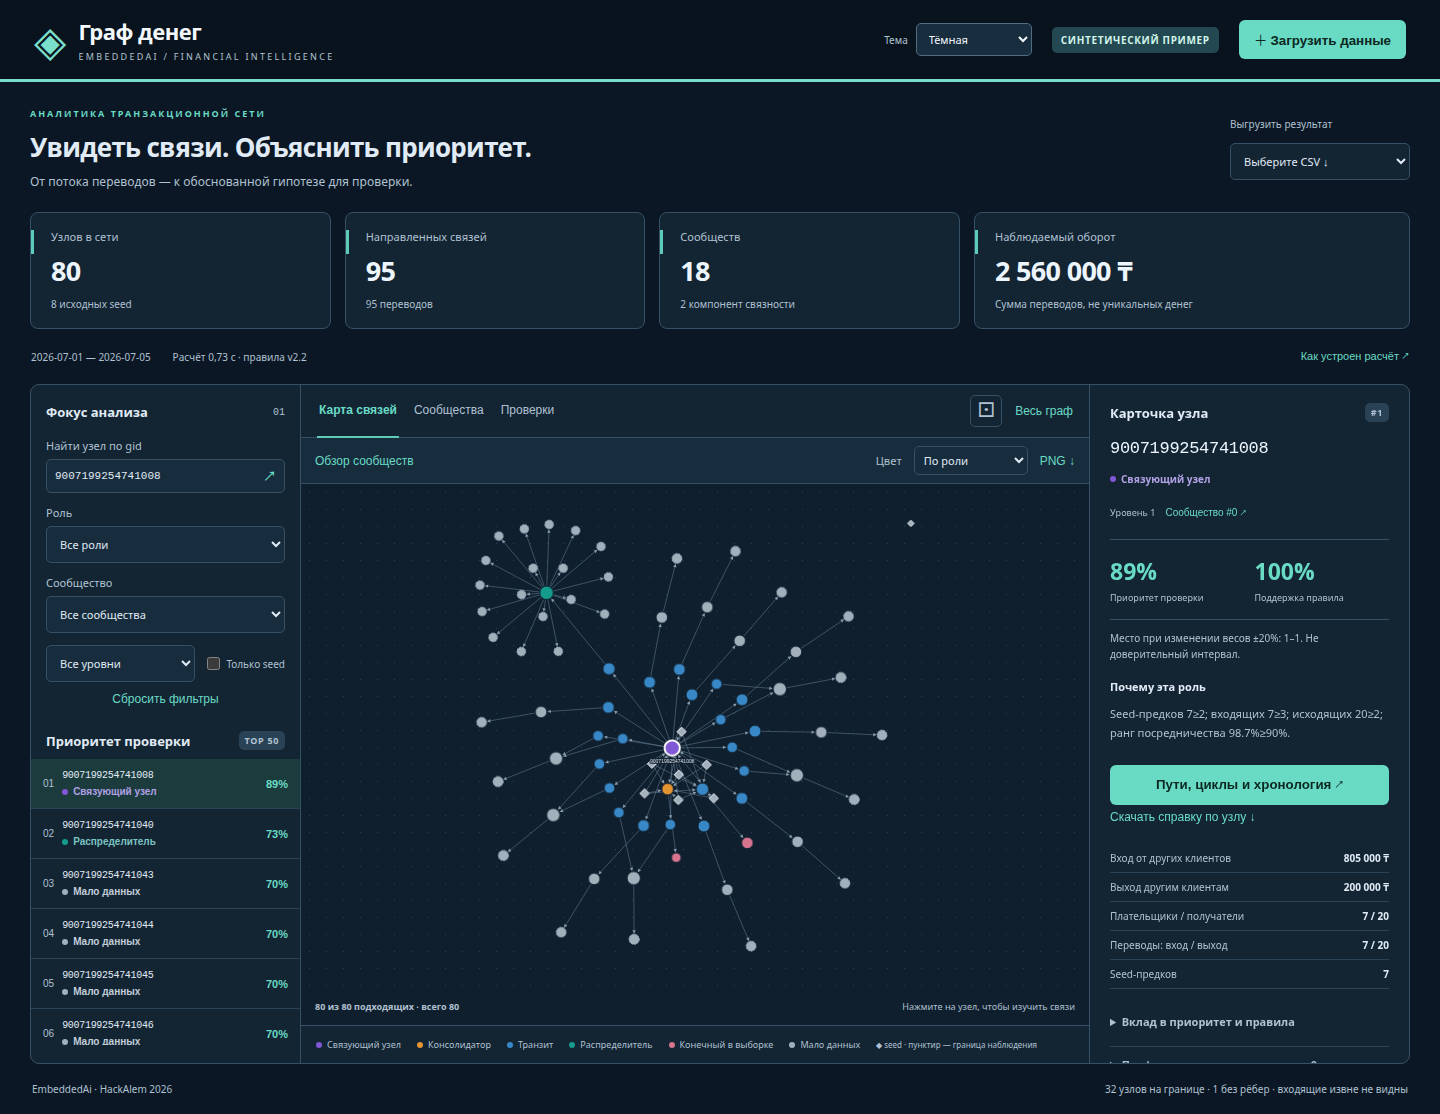
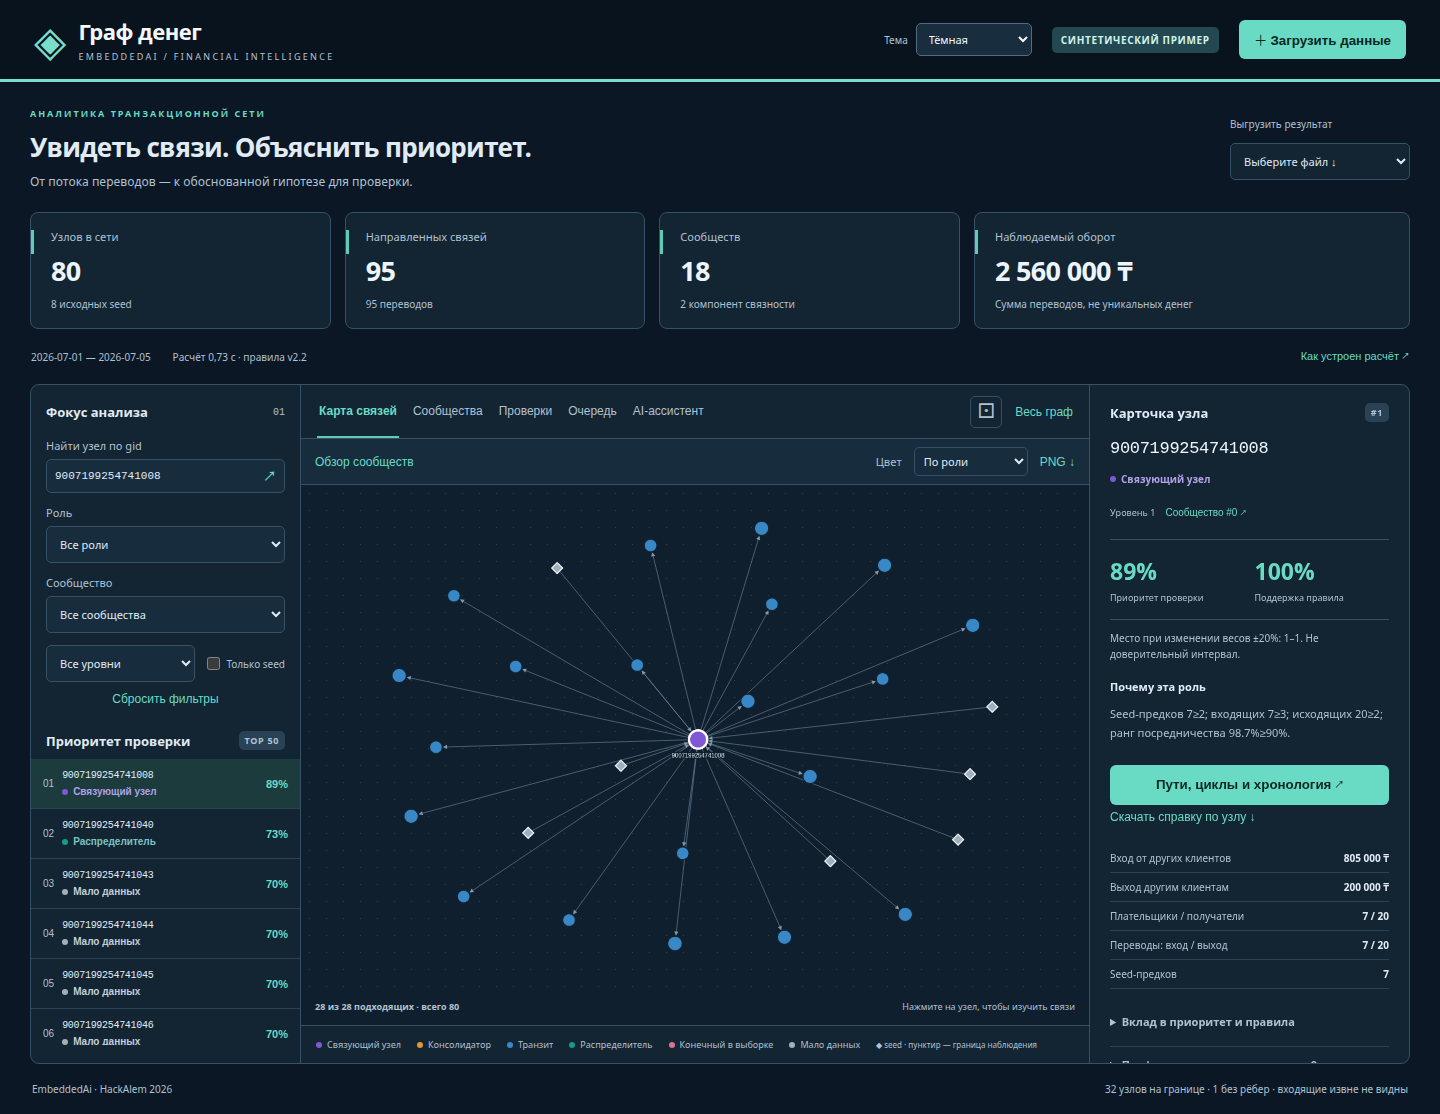
Polish analyst workflow and document verified v0.6 deployment

diff --git a/web/src/main.ts b/web/src/main.ts
@@ -43,7 +43,7 @@ let assistant: AnalystAssistant | undefined;
 $("app").innerHTML = `
   <header class="header"><a class="brand" href="/" aria-label="На главную"><span class="brand-icon">◈</span><span>Граф денег<small>EMBEDDEDAI / FINANCIAL INTELLIGENCE</small></span></a>
     <div class="header-right"><div class="theme-control"><label for="theme-select">Тема</label><select id="theme-select" aria-label="Цветовая тема"><option value="system">Системная</option><option value="light">Светлая</option><option value="dark">Тёмная</option></select></div><span id="dataset-badge" class="tag">Подключение…</span><button id="upload-open" class="button primary">＋ Загрузить данные</button></div></header>
-  <main><div class="heading"><div><p class="eyebrow">АНАЛИТИКА ТРАНЗАКЦИОННОЙ СЕТИ</p><h1>Увидеть связи. Объяснить приоритет.</h1><p class="subtitle">От потока переводов — к обоснованной гипотезе для проверки.</p></div><div class="export-wrap"><label for="export-select">Выгрузить результат</label><select id="export-select"><option value="">Выберите CSV ↓</option><option value="nodes_roles.csv">Все узлы и роли</option><option value="clusters.csv">Кластеры</option><option value="top_nodes.csv">Топ приоритетов</option></select></div></div>
+  <main><div class="heading"><div><p class="eyebrow">АНАЛИТИКА ТРАНЗАКЦИОННОЙ СЕТИ</p><h1>Увидеть связи. Объяснить приоритет.</h1><p class="subtitle">От потока переводов — к обоснованной гипотезе для проверки.</p></div><div class="export-wrap"><label for="export-select">Выгрузить результат</label><select id="export-select"><option value="">Выберите файл ↓</option><option value="nodes_roles.csv">Все узлы и роли</option><option value="clusters.csv">Кластеры</option><option value="top_nodes.csv">Топ приоритетов</option><option value="report.html">Офлайн-отчёт HTML</option></select></div></div>
   <div id="alert" class="alert" role="status" hidden></div>
   <section id="metrics" class="metrics" aria-label="Показатели набора"><div class="metric">Загрузка показателей…</div></section>
   <div class="context-strip"><span id="period">—</span><span id="runtime">—</span><button id="method-open" class="text-button">Как устроен расчёт ↗</button></div>

diff --git a/web/tests/workspace.spec.ts b/web/tests/workspace.spec.ts
@@ -84,6 +84,7 @@ test("AI uses selected string gids and session-only access code, escapes output 
   await page.locator("#assistant-token").fill("test-access-code");
   await page.locator("#assistant-send").click();
   await expect(page.locator(".assistant-answer-text")).toContainText("<img src=x");
+  await expect(page.locator(".assistant-answer-text")).toBeInViewport();
   await expect(page.locator("#assistant-result img")).toHaveCount(0);
   expect(payload).toEqual({ question: "Кто собирает деньги с этих двоих?", selected_gids: chosen });
   expect(sentToken).toBe("test-access-code");
@@ -126,6 +127,7 @@ test("AI cancellation ignores a late response and API failure stays an actionabl
   await expect(page.locator("#assistant-result")).toContainText("Запрос отменён");
   await page.locator("#assistant-send").click();
   await expect(page.locator("#assistant-result")).toContainText("Провайдер временно недоступен");
+  await expect(page.locator("#assistant-result .alert")).toBeInViewport();
   await expect(page.locator(".assistant-answer")).toHaveCount(0);
   await expect(page.locator("#assistant-send")).toBeEnabled();
 });

diff --git a/web/src/assistant.ts b/web/src/assistant.ts
@@ -199,6 +199,8 @@ export class AnalystAssistant {
       if (sequence === this.sequence) {
         this.pending = false;
         this.updateControls();
+        if (!$("assistant-view").hidden)
+          $("assistant-result").scrollIntoView({ block: "start", behavior: "auto" });
       }
     }
   }

diff --git a/README.md b/README.md
@@ -173,7 +173,7 @@ Bash-обёртки `scripts/start.sh` и `scripts/verify.sh` сохранены
 
 ![Синтетический пример: направленный граф и объяснение роли узла](docs/images/demo.png)
 
-[Посмотреть тёмную тему](docs/images/demo-dark.png).
+[Посмотреть тёмную тему](docs/images/demo-dark.png) · [Пример AI-ответа](docs/images/assistant.png).
 
 Основной сценарий: загрузите три файла → откройте TOP → объясните роль через
 факты → найдите произвольный `gid` → покажите связи/сообщество → скачайте CSV.
@@ -211,7 +211,7 @@ flowchart LR
 Python 3.12, pandas, PyArrow, NumPy/SciPy, NetworkX, FastAPI, Uvicorn;
 TypeScript, Cytoscape.js и Vite. CLI и API вызывают один `pipeline.analyze`.
 Состояние хранится в каталогах запусков; база данных для данного объёма не нужна.
-Вычисления выполняются на CPU. GPU, обучение нейросети и платные API не требуются.
+Основной аналитический пайплайн выполняется на CPU. GPU, обучение нейросети и платные API для него не требуются.
 
 `uv build --wheel` собирает самостоятельный Python-пакет для команд `demo` и
 `analyze`. Правила включены в wheel: после установки расчёт работает вне checkout

diff --git a/docs/OFFLINE_REPORT.md b/docs/OFFLINE_REPORT.md
@@ -10,7 +10,8 @@ uv run --frozen --no-dev python analyze.py --data ./data/data --out ./artifacts
 После успешного завершения откройте `artifacts/report.html` двойным щелчком в
 проводнике Windows, Finder macOS или файловом менеджере Linux. Отчёт работает
 через `file://`: Node.js, веб-сервер, API-ключ и интернет для просмотра не нужны.
-Чтобы ссылки на CSV работали, оставьте файлы результата рядом с HTML.
+В веб-интерфейсе отчёт доступен через «Выгрузить результат → Офлайн-отчёт HTML».
+Чтобы ссылки на CSV работали, оставьте три скачанных CSV рядом с HTML.
 
 Инструкции установки uv и вариант через обычный pip — в [RUNNING.md](RUNNING.md).
 Отчёт создаётся и при передаче трёх отдельных файлов через `--nodes`, `--edges`,

diff --git a/docs/VALIDATION_05.md b/docs/VALIDATION_05.md
@@ -1,5 +1,7 @@
 # Проверка версии 0.5.0 / правил 2.2 — 23 сентября 2026
 
+> История версии 0.5. Текущий релиз: [аудит 0.6](AUDIT_06.md), [проверки 0.6](VALIDATION_06.md).
+
 Полный разбор каждого требования: [AUDIT_05.md](AUDIT_05.md).
 Команда жюри: [README](../README.md), инструкции ОС: [RUNNING.md](RUNNING.md).
 Проверки выполнены на Linux x86_64, Python 3.12.3, обычном ноутбуке без GPU/API.

diff --git a/docs/AUDIT_05.md b/docs/AUDIT_05.md
@@ -1,5 +1,7 @@
 # Проверка каждого пункта ТЗ: приложение 0.5, правила 2.2
 
+> История версии 0.5. Текущий релиз: [аудит 0.6](AUDIT_06.md), [проверки 0.6](VALIDATION_06.md).
+
 Основание — полный [текст ТЗ](../data/ТЗ.md), схема
 [датасета](../data/README.md) и дополнительные пояснения
 [starter](../data/starter/README.md). Это проверка реализации, а не обещание
